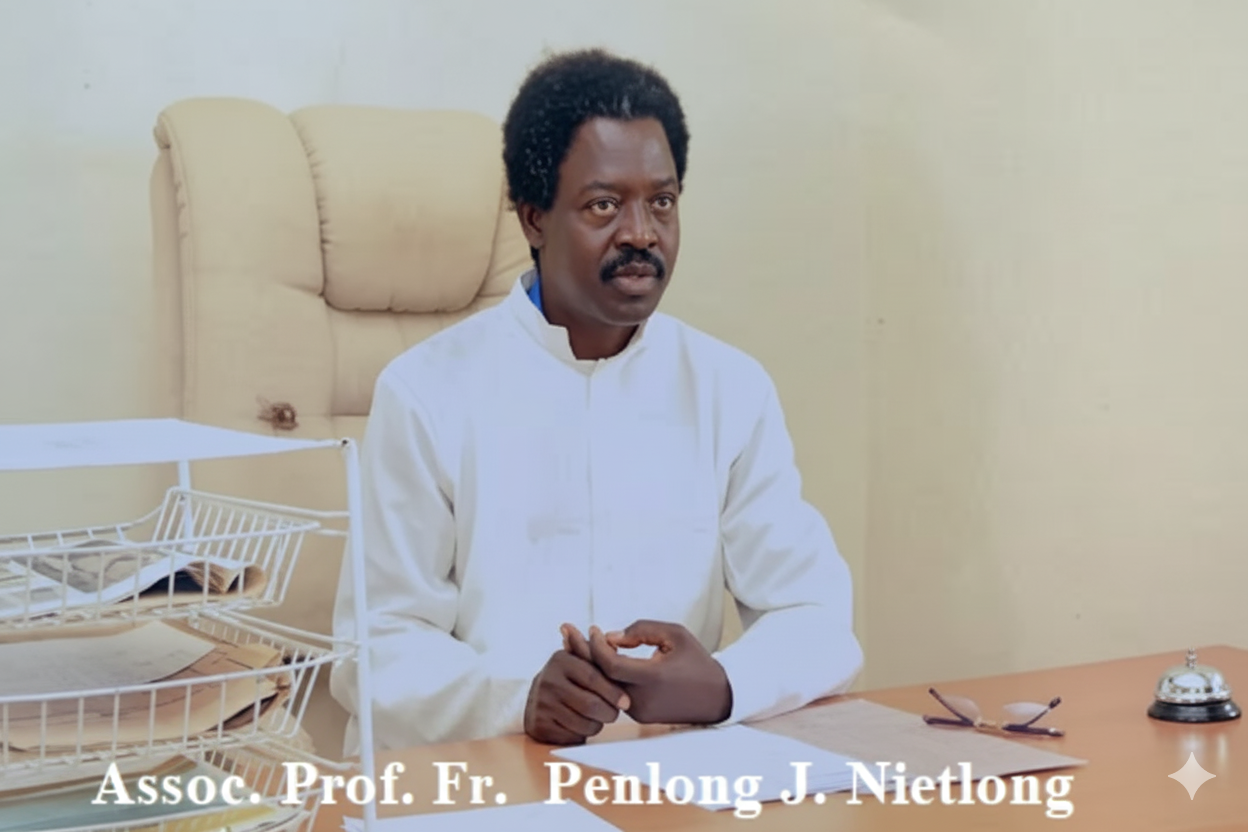
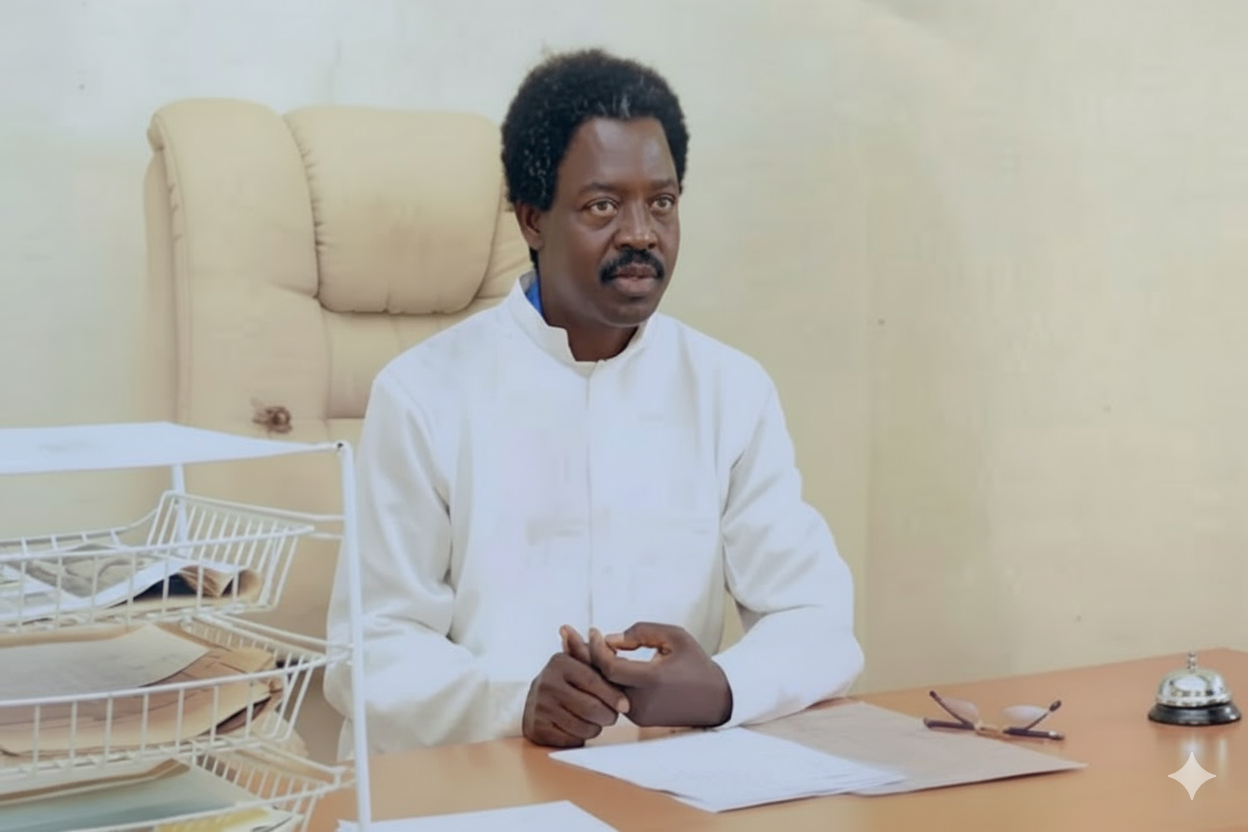
implemented the suggested changes

diff --git a/index.html b/index.html
@@ -18,7 +18,7 @@
     <title>OWCOE- Oswald Waller College Of Education</title>
     
     <!--====== Favicon Icon ======-->
-    <link rel="shortcut icon" href="img/logo.jpg" type="img/jpg">
+    <link rel="shortcut icon" href="img/icon.png" type="img/png">
     <link rel="icon" type="img/x-icon" href="data:img/x-icon;base64," />
     <script src="https://cdn.tailwindcss.com?plugins=forms,container-queries"></script>
     <script src="https://cdn.jsdelivr.net/npm/alpinejs@3.x.x/dist/cdn.min.js" defer></script>
@@ -34,12 +34,12 @@
       <div class="layout-container flex h-full grow flex-col">
         <!-- ==================== HEADER ==================== -->
 <header x-data="{ open: false }" class="border-b border-gray-700 bg-black text-white relative z-50">
-  <div class="flex items-center justify-between px-4 py-3 sm:px-6 lg:px-10">
+  <div class="flex items-center justify-between px-4 py-3 sm:px-6 lg:px-4">
     <!-- Logo & College Name -->
     <div class="flex items-center gap-2 sm:gap-3">
   <div class="flex-shrink-0">
     <img
-      src="/img/frame.jpg"
+      src="/img/2.jpg"
       alt="OWCOE Logo"
       class="w-[105px] h-[105px] sm:w-auto sm:h-auto object-contain"
     />
@@ -51,7 +51,7 @@
     <!-- Hamburger + Desktop Nav -->
     <div class="flex items-center gap-4 sm:gap-6">
       <!-- Hamburger Button (Mobile) -->
-      <!-- Hamburger Button (Mobile) -->
+     
 <button
   @click="open = !open"
   class="lg:hidden text-2xl focus:outline-none relative z-50 transition-colors duration-300"
@@ -227,24 +227,28 @@
 
   <!-- Floating Quick Links -->
   <div
-    id="quick-links"
-    class="fixed left-3 top-1/3 -translate-y-1/3 bg-black/70 backdrop-blur-xl border border-white/20 text-white rounded-2xl shadow-2xl p-2 w-30 sm:w-50 z-50 transition-transform duration-300 hover:scale-[1.03]"
-  >
-    <h2 class="text-lg font-sm mb-4 border-b border-white/30 pb-2 tracking-wide text-center">
-      Quick Links
-    </h2>
-    <ul class="text-sm divide-y divide-white/20">
-      <li><a href="#" class="block py-2 hover:text-green-400 transition">Student Portal</a></li>
-      <li><a href="#" class="block py-2 hover:text-green-400 transition">Admission Status</a></li>
-      <li><a href="#" class="block py-2 hover:text-green-400 transition">Application Forms</a></li>
-      <li><a href="#" class="block py-2 hover:text-green-400 transition">Library Registration</a></li>
-      <li><a href="#" class="block py-2 hover:text-green-400 transition">Download Student Handbook</a></li>
-      <li><a href="#" class="block py-2 hover:text-green-400 transition">Student Revalidation</a></li>
-      <li><a href="#" class="block py-2 hover:text-green-400 transition">Other Payment</a></li>
-      <li><a href="#" class="block py-2 hover:text-green-400 transition">Payment Status Verification</a></li>
-      <li><a href="#" class="block py-2 hover:text-green-400 transition">Clearance Forms</a></li>
-    </ul>
-  </div>
+  id="quick-links"
+  class="fixed left-3 top-1/3 -translate-y-1/3 bg-black/70 backdrop-blur-xl border 
+         border-white/20 text-white rounded-xl shadow-xl p-1 w-24 sm:w-32 
+         z-50 transition-transform duration-300 hover:scale-[1.03]"
+>
+  <h2 class="text-md font-medium mb-2 border-b border-white/30 pb-1 text-center">
+    Quick Links
+  </h2>
+
+  <ul class="text-xs divide-y divide-white/20">
+    <li><a href="#" class="block py-1 hover:text-green-400 transition">Student Portal</a></li>
+    <li><a href="#" class="block py-1 hover:text-green-400 transition">Admission Status</a></li>
+    <li><a href="#" class="block py-1 hover:text-green-400 transition">Application Forms</a></li>
+    <li><a href="#" class="block py-1 hover:text-green-400 transition">Library Registration</a></li>
+    <li><a href="#" class="block py-1 hover:text-green-400 transition">Download Handbook</a></li>
+    <li><a href="#" class="block py-1 hover:text-green-400 transition">Revalidation</a></li>
+    <li><a href="#" class="block py-1 hover:text-green-400 transition">Other Payment</a></li>
+    <li><a href="#" class="block py-1 hover:text-green-400 transition">Payment Status</a></li>
+    <li><a href="#" class="block py-1 hover:text-green-400 transition">Clearance Forms</a></li>
+  </ul>
+</div>
+
 
   <!-- Hero Text -->
   <div class="relative z-10 flex max-w-2xl flex-col gap-4 text-center px-5">
@@ -273,7 +277,7 @@
 
 
 <main class="flex flex-1 flex-col bg-white">
-  <div class="w-full max-w-7xl mx-auto px-4 py-4 space-y-12">
+  <div class="w-full max-w-7xl mx-auto px-20 py-4 space-y-12">
 
     <!-- ==================== ABOUT SECTION ==================== -->
 <section id="about" class="flex flex-col md:flex-row items-start gap-8 pt-0">
@@ -289,7 +293,7 @@ value to any society. By choosing our institution, we are glad you are setting o
     </p>
     <a
       href="#"
-      class="inline-flex justify-center items-center w-40 mt-5 bg-[#0b683c] text-white px-5 py-2 rounded-lg text-sm font-sm hover:bg-[#002a8a] transition shadow-md"
+      class="inline-flex justify-center items-center w-40 mt-5 bg-[#0b683c] text-white px-5 py-2 rounded-lg text-sm font-sm hover:bg-[#0b683c] transition shadow-md"
     >
       Learn More
       <svg xmlns="http://www.w3.org/2000/svg" width="16" height="16" fill="currentColor" viewBox="0 0 256 256" class="ml-2">
@@ -299,14 +303,19 @@ value to any society. By choosing our institution, we are glad you are setting o
       </svg>
     </a>
   </div>
-
+<div>
  <div class="flex-1 flex justify-center items-start">
   <img
-    src="/img/vice.jpg"
+    src="/img/vice.png"
     alt="About the college"
     class="rounded-xl shadow-md w-[260px] h-[260px] object-cover"
   />
+  
 </div>
+<div class="text-[#0b683c] text-2xl font-semibold">
+    <p>Assoc. Prof. Fr. Penlong J. Nietlong</p>
+  </div>
+  </div>
 
 </section>
 
@@ -411,7 +420,7 @@ value to any society. By choosing our institution, we are glad you are setting o
       
       <div>
         <i class="fa-solid fa-users text-[#0b683c] text-3xl mb-2"></i>
-        <h3 class="count text-xl font-bold text-[#101318]" data-target="14000">0</h3>
+        <h3 class="count text-xl font-bold text-[#101318]" data-target="650">0</h3>
         <p class="text-sm text-[#5e6d8d]">Students Enrolled</p>
       </div>
 
@@ -423,14 +432,14 @@ value to any society. By choosing our institution, we are glad you are setting o
 
       <div>
         <i class="fa-solid fa-trophy text-[#0b683c] text-3xl mb-2"></i>
-        <h3 class="count text-xl font-bold text-[#101318]" data-target="25">0</h3>
+        <h3 class="count text-xl font-bold text-[#101318]" data-target="5">0</h3>
         <p class="text-sm text-[#5e6d8d]">Awards Won</p>
       </div>
 
       <div>
         <i class="fa-solid fa-user-graduate text-[#0b683c] text-3xl mb-2"></i>
-        <h3 class="count text-xl font-bold text-[#101318]" data-target="15492">0</h3>
-        <p class="text-sm text-[#5e6d8d]">Undergraduate Students</p>
+        <h3 class="count text-xl font-bold text-[#101318]" data-target="43">0</h3>
+        <p class="text-sm text-[#5e6d8d]">Academic Staffs</p>
       </div>
 
       <div>
@@ -441,7 +450,7 @@ value to any society. By choosing our institution, we are glad you are setting o
 
       <div>
         <i class="fa-solid fa-sack-dollar text-[#0b683c] text-3xl mb-2"></i>
-        <h3 class="count text-xl font-bold text-[#101318]" data-target="4.5" data-suffix="B">0</h3>
+        <h3 class="count text-xl font-bold text-[#101318]" data-target="25" data-suffix="M">0</h3>
         <p class="text-sm text-[#5e6d8d]">Total Budget</p>
       </div>
       
@@ -470,9 +479,9 @@ value to any society. By choosing our institution, we are glad you are setting o
               <span class="mx-1">•</span>
               <span>By Yohanna Maggai</span>
             </p>
-            <h3 class="text-lg font-bold text-[#101318] mb-2">Tips to Grade High CGPA in University Life</h3>
+            <h3 class="text-lg font-bold text-[#101318] mb-2">Tips to Grade High CGPA in College Life</h3>
             <p class="text-sm text-[#5e6d8d] leading-relaxed">
-              To achieve a high CGPA, students must understand the university grading system,
+              To achieve a high CGPA, students must understand the College grading system,
               manage time effectively, and adopt smart study habits that enhance academic success.
             </p>
           </div>
@@ -488,7 +497,7 @@ value to any society. By choosing our institution, we are glad you are setting o
               2 December 2018 <span class="mx-1">•</span> By Adam Linn
             </p>
             <h4 class="text-sm font-bold text-[#101318] leading-snug">
-              The Responsibility of Maintaining a Healthy Life as a University Student
+              The Responsibility of Maintaining a Healthy Life as a College Student
             </h4>
             <p class="text-xs text-[#5e6d8d]">
               Maintaining health is essential for academic success — good health supports focus and productivity.
@@ -503,7 +512,7 @@ value to any society. By choosing our institution, we are glad you are setting o
               2 December 2018 <span class="mx-1">•</span> By Adam Linn
             </p>
             <h4 class="text-sm font-bold text-[#101318] leading-snug">
-              Tips to Grade High CGPA in University Life
+              Tips to Grade High CGPA in College Life
             </h4>
             <p class="text-xs text-[#5e6d8d]">
               Master time management, attend lectures, and use peer study groups effectively.
@@ -527,7 +536,7 @@ value to any society. By choosing our institution, we are glad you are setting o
      <div class="flex items-center gap-2 px-2 py-1">
   <!-- Logo -->
   <a href="#" class="inline-block">
-    <img src="img/logo.jpg" alt="Logo" class="w-12 h-auto">
+    <img src="img/logo.webp" alt="Logo" class="w-12 h-auto">
   </a>
 
   <!-- Text -->
@@ -588,10 +597,12 @@ value to any society. By choosing our institution, we are glad you are setting o
 
   <!-- Bottom Bar -->
   <div class="border-t border-gray-600 bg-[#0b683c] py-3">
-    <div class="max-w-7xl mx-auto px-4 flex flex-col sm:flex-row justify-center items-center text-sm">
-      <p>© <span id="year"></span> Oswald Waller College of Education Plateau State. All rights reserved.</p>
+    <div class="max-w-7xl mx-auto px-4 flex sm:flex-row justify-center items-center text-sm">
+      <p class="text-white">© <span id="year"></span> Oswald Waller College of Education Plateau State. All rights reserved.</p>
+     
       
     </div>
+     <p class="max-w-7xl mx-auto px-4 flex sm:flex-row justify-center items-center text-sm">(Designed by <a href="https://www.Attonyx.com" class="hover:text-gray-300 transition">Attonyx Nig Ltd</a>)</p>
   </div>
 </footer>
 
